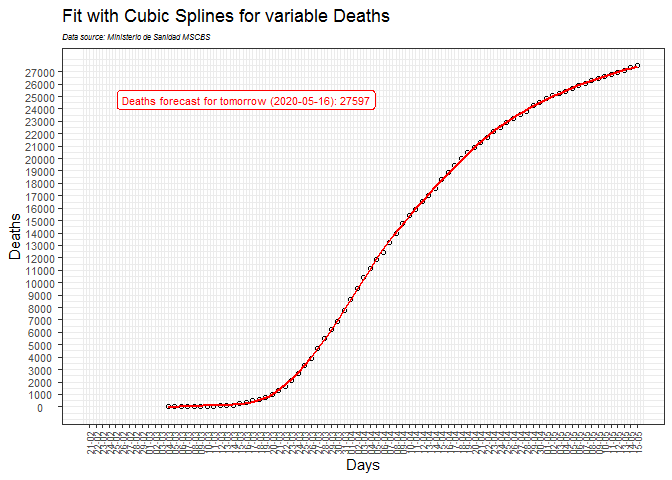
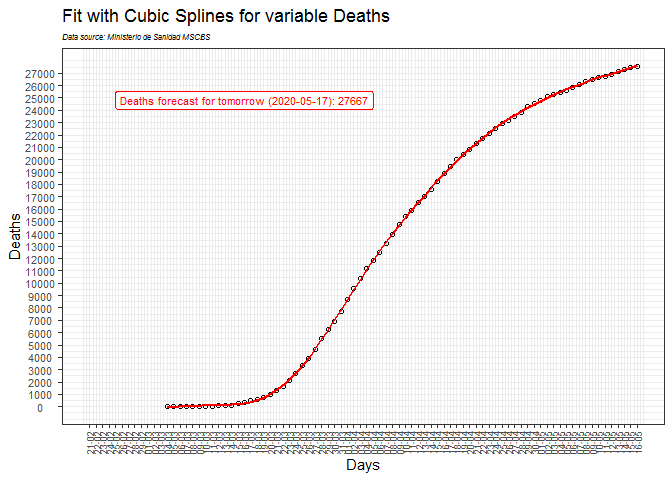
upgrade

diff --git a/README.md b/README.md
@@ -1,7 +1,7 @@
 Covid-19: The case of Spain
 ================
 JMSS \[Usal - CIC\]
-(updated: 15 may 2020)
+(updated: 16 may 2020)
 
 # Models for the COVID-19 pandemic in Spain
 
@@ -23,8 +23,6 @@ death people.
 The following graph shows the differences between CC.AA. (regions) in
 mortality per 10,000 inhabitants.
 
-![](README_files/figure-gfm/mort-1.png)<!-- -->
-
 -----
 
 ## CUBIC SPLINES
@@ -40,9 +38,9 @@ It is based on interpolation with cubic splines. See
 
 ![](README_files/figure-gfm/splinesD-1.png)<!-- -->
 
-##### Infecteds forecast for tomorrow (2020-05-16): 275994
+##### Infecteds forecast for tomorrow (2020-05-17): 278643
 
-##### Deaths forecast for tomorrow (2020-05-16): 27597
+##### Deaths forecast for tomorrow (2020-05-17): 27667
 
 Previous predictions:
 
@@ -88,6 +86,7 @@ Previous predictions:
     13-05 -> predicted = 270729; observed = 271566; error = -0.31%
     14-05 -> predicted = 272448; observed = 272740; error = -0.11%
     15-05 -> predicted = 273854; observed = 274367; error = -0.19%
+    16-05 -> predicted = 275994; observed = 276505; error = -0.19%
 
     Deaths forecast:
 
@@ -131,6 +130,7 @@ Previous predictions:
     13-05 -> predicted = 27096; observed = 27104; error = -0.03%
     14-05 -> predicted = 27288; observed = 27321; error = -0.12%
     15-05 -> predicted = 27538; observed = 27459; error =  0.29%
+    16-05 -> predicted = 27597; observed = 27563; error =  0.12%
 
 -----
 
@@ -150,9 +150,9 @@ the model will decrease.
 
 ![](README_files/figure-gfm/regresion-1.png)<!-- -->
 
-##### Infected forecast for tomorrow (2020-05-16): 269669, with 95% prediction interval: (253473 , 285866)
+##### Infected forecast for tomorrow (2020-05-17): 271825, with 95% prediction interval: (255689 , 287962)
 
-##### Deaths forecast for tomorrow (2020-05-16): 27284, with 95% prediction interval: (26221 , 28347)
+##### Deaths forecast for tomorrow (2020-05-17): 27478, with 95% prediction interval: (26423 , 28533)
 
 Previous predictions:
 
@@ -211,6 +211,7 @@ Previous predictions:
     13-05 -> predicted = 262669; observed = 271566; error =  -3.4%
     14-05 -> predicted = 265146; observed = 272740; error =  -2.9%
     15-05 -> predicted = 267492; observed = 274367; error =  -2.6%
+    16-05 -> predicted = 269669; observed = 276505; error =  -2.5%
 
     Deaths forecast:
 
@@ -267,6 +268,7 @@ Previous predictions:
     13-05 -> predicted = 26650; observed = 27104; error = -1.7%
     14-05 -> predicted = 26851; observed = 27321; error = -1.8%
     15-05 -> predicted = 27072; observed = 27459; error = -1.4%
+    16-05 -> predicted = 27284; observed = 27563; error = -1.0%
 
 -----
 
@@ -288,13 +290,13 @@ Estimates with the SIR model:
 ![](README_files/figure-gfm/SIR%20plots-1.png)<!-- -->
 
 According to this model, the rate of infection is 1.18, the height of
-the pandemic will be reached by 22/05/2020.
+the pandemic will be reached by 23/05/2020.
 
-About 594443 people would be infected by then, which translates to about
-285333 hospitalized cases, about 35667 cases in need of intensive care
-(UCI) and up to 26750 deaths.
+About 583126 people would be infected by then, which translates to about
+279900 hospitalized cases, about 34988 cases in need of intensive care
+(UCI) and up to 26241 deaths.
 
-#### Infected forecast for tomorrow: 428397 (2020-05-16)
+#### Infected forecast for tomorrow: 432898 (2020-05-17)
 
 Previous predictions:
 
@@ -354,6 +356,7 @@ Previous predictions:
     13-05 -> predicted = 398222; observed = 271566; error =  31.8%
     14-05 -> predicted = 418215; observed = 272740; error =  34.8%
     15-05 -> predicted = 423582; observed = 274367; error =  35.2%
+    16-05 -> predicted = 428397; observed = 276505; error =  35.5%
 
 -----
 
